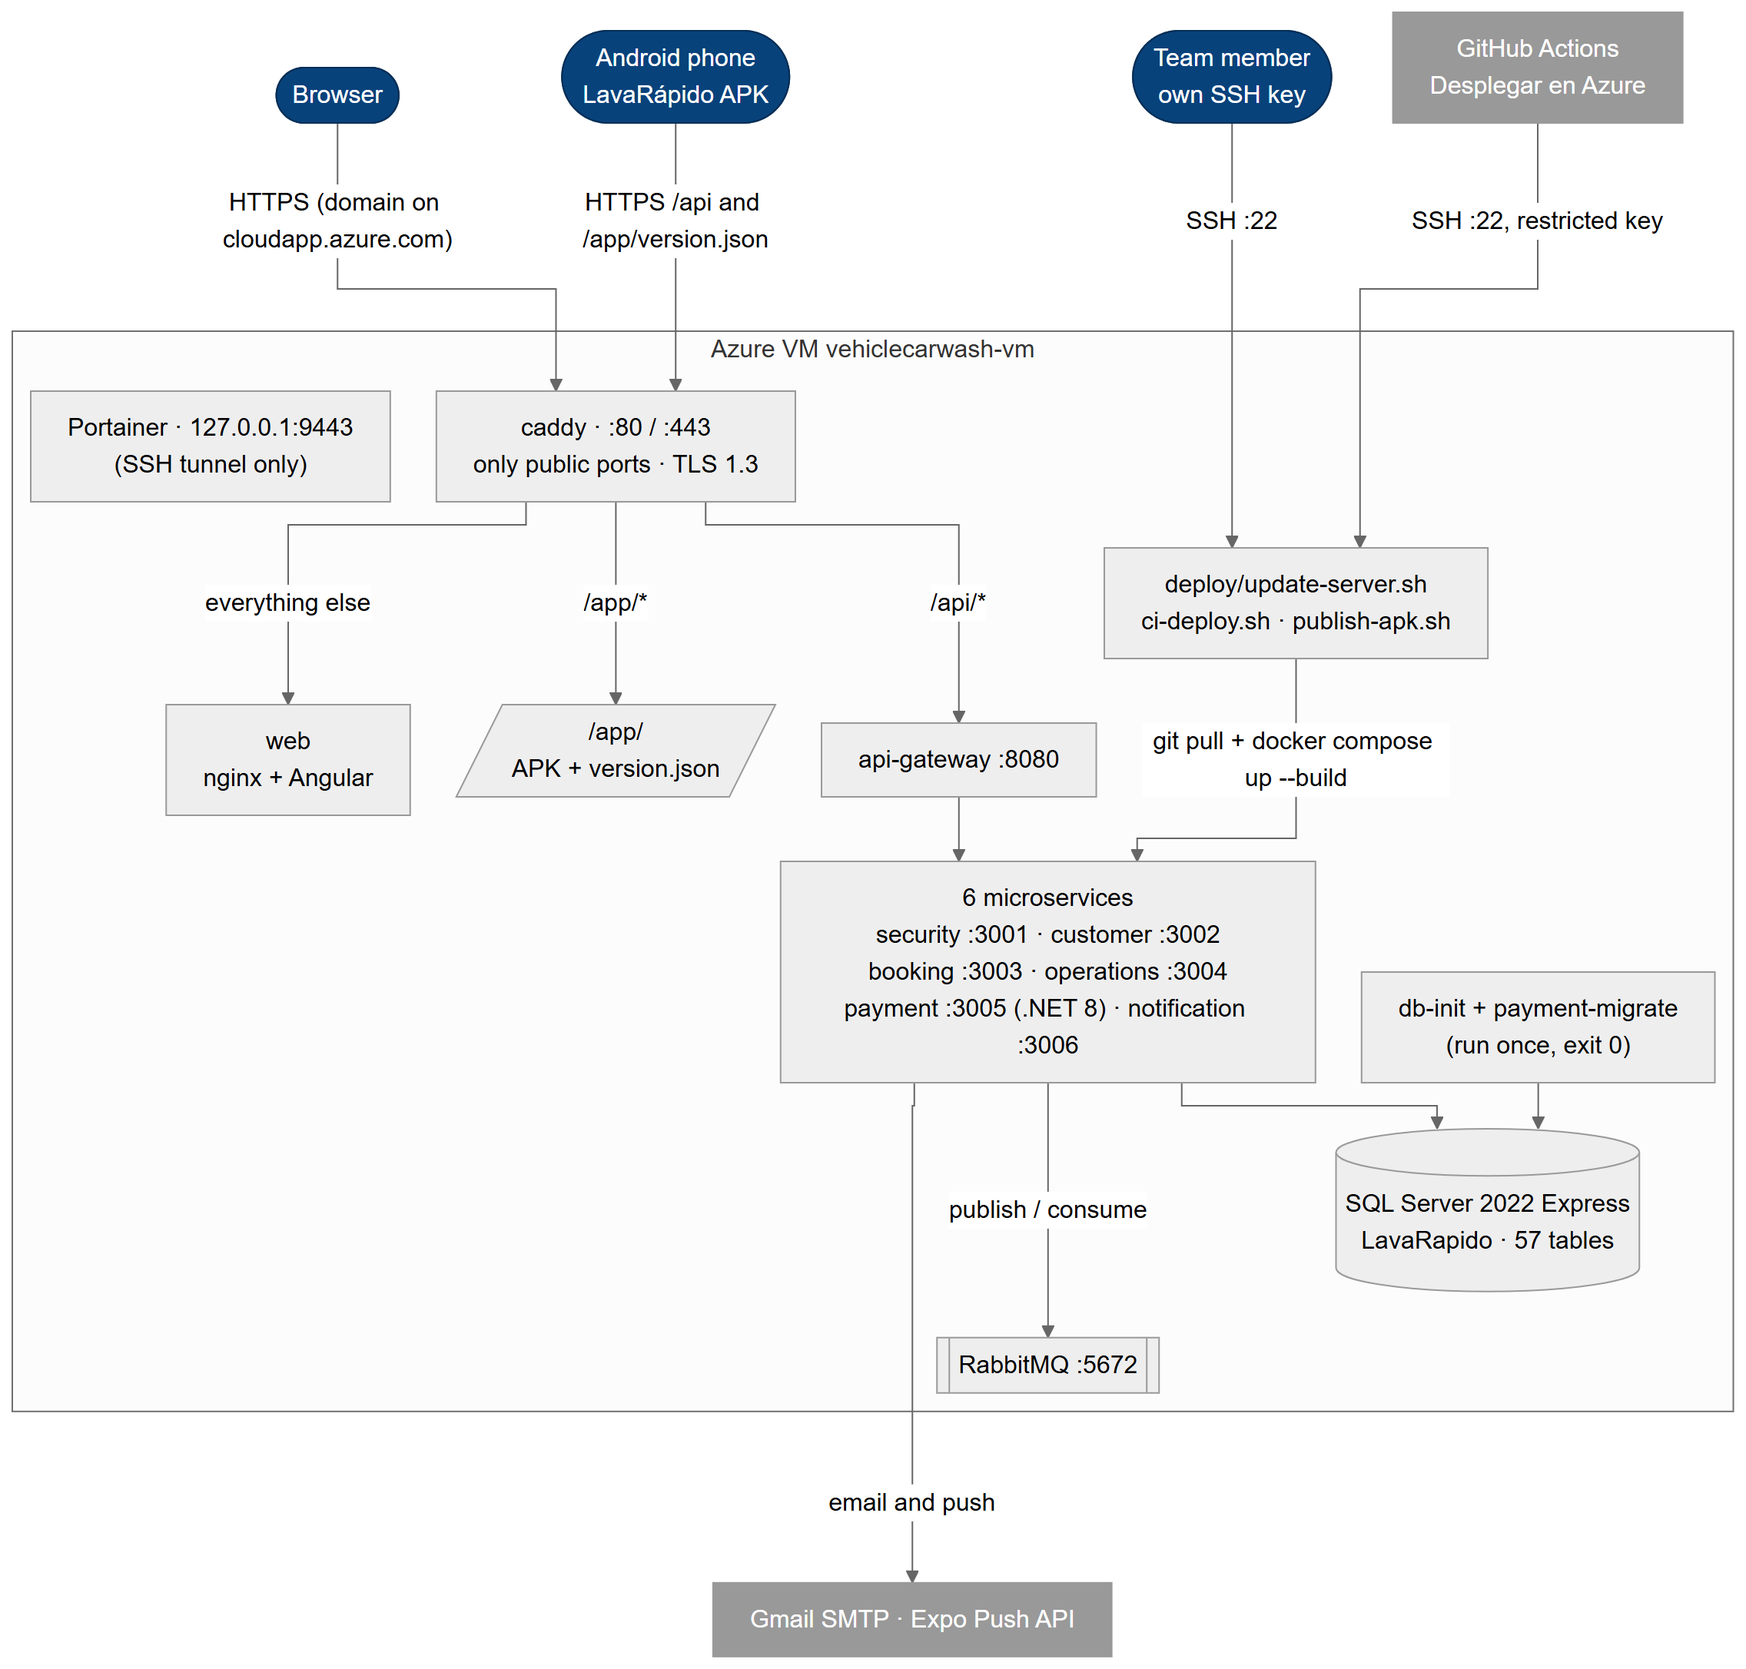
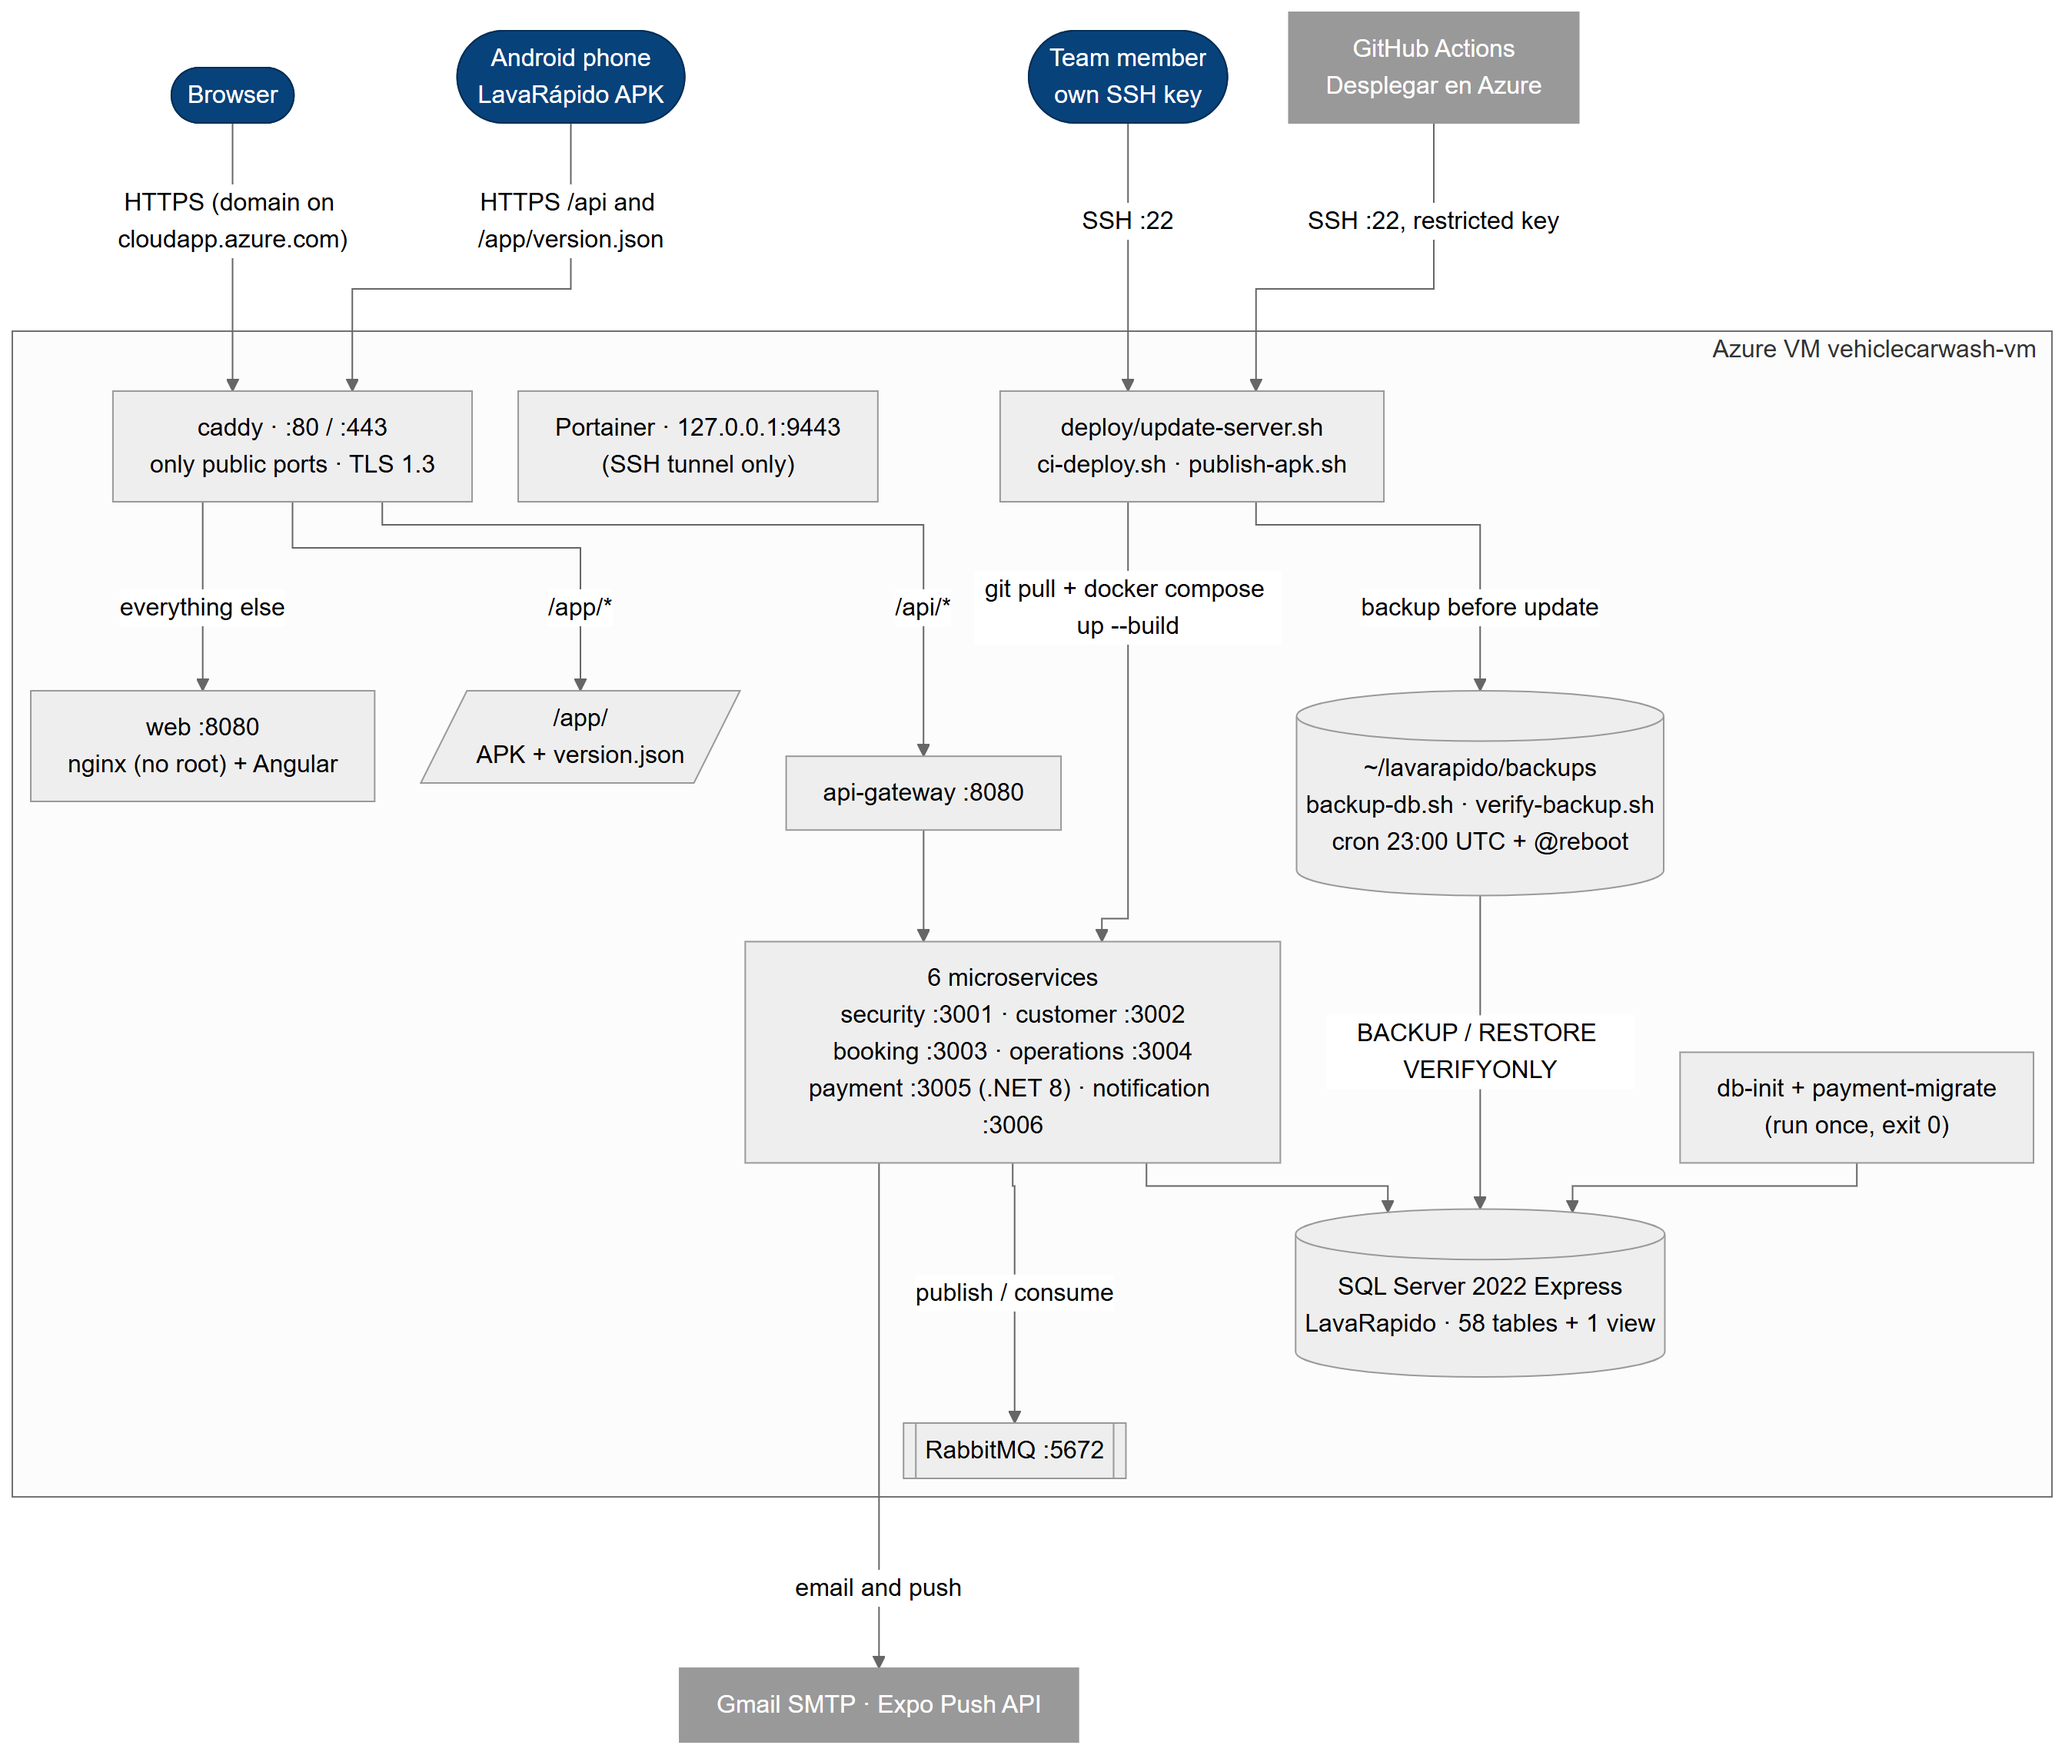
docs(uml): show production deployed from main by the continuous deployment

diff --git a/08-uml/diagrams/source/deployment-production.md b/08-uml/diagrams/source/deployment-production.md
@@ -1,11 +1,11 @@
-# Deployment — Production on Azure (as running on 2026-10-19, files checked on 2026-10-23)
+# Deployment — Production on Azure (as running on 2026-10-19, files checked on 2026-10-27)
 
 Source: `lavarapido-infra/docker-compose.yml` + `docker-compose.prod.yml`, `deploy/Caddyfile`,
 `deploy/update-server.sh`, `deploy/ci-deploy.sh`, `.github/workflows/deploy.yml`, and the server itself
 (`docker ps`, read on 2026-10-19). Details and measurements: `10-devops/production.md` and the
-Deployment Document of `lavarapido-docs`. Decision: ADR-016. The server follows `develop` and is
-updated by hand; the GitHub Actions path is drawn as it is configured, but on 2026-10-23 it had never
-run (no `AZURE_SSH_KEY` secret).
+Deployment Document of `lavarapido-docs`. Decision: ADR-016. The server runs `main` and is updated by
+the continuous deployment: since 2026-10-26 every merge to `main` runs "Desplegar en Azure" through the
+restricted key (ADR-017); the automatic deploys of 2026-10-26 and 2026-10-27 succeeded.
 
 ```mermaid
 flowchart TB
@@ -55,8 +55,8 @@ flowchart TB
 | Server | Azure VM `vehiclecarwash-vm` (Ubuntu 24.04, 2 vCPU, 7.7 GB), domain `lavarapidovehicular.northcentralus.cloudapp.azure.com`, public IP 64.236.160.129, Docker 29 and Compose v5; every container is in the network `lavarapido_default` |
 | Caddy | Only container with published ports; obtains and renews the certificate (valid until 2027-01-14 at the last check) |
 | Services | Which service calls which and the events they exchange: [c2-containers](./c2-containers.md). No ports on the host; Swagger off; memory limit per container, `restart: unless-stopped` |
-| SQL Server | Express edition; data in the `sqlserver-data` volume. `db-init` creates the database (recovery model `SIMPLE`); each Java service applies its Liquibase changelog on start-up (global numbering up to 047 and seeds up to 116 in `origin/develop` on 2026-10-24) and `payment-migrate` applies the .NET service's (own numbering up to 023) |
+| SQL Server | Express edition; data in the `sqlserver-data` volume. `db-init` creates the database (recovery model `SIMPLE`); each Java service applies its Liquibase changelog on start-up (global numbering up to 049 and seeds up to 117 on `main` on 2026-10-27) and `payment-migrate` applies the .NET service's (own numbering up to 023) |
 | Backups | `backup-db.sh` and `verify-backup.sh` run by cron (daily 23:00 UTC and 5 min after boot) and before each update; 14 regular and 10 `pre-update` kept on the VM disk; `restore-db.sh` and `rollback.sh` (`:prev` images) by hand (`13-operations/README.md`) |
 | Mailpit | Not started in production (`dev-only` profile) |
 | Portainer | Bound to `127.0.0.1`; reached through an SSH tunnel |
-| Access | Members with their own key; GitHub Actions with a restricted key that can only run `ci-deploy.sh` (key and secret still to be created). Continuous deployment from `main` with `boot-update.sh` is merged into `develop` since 2026-10-24, not run yet (ADR-017) |
+| Access | Members with their own key; GitHub Actions with a restricted key that can only run `ci-deploy.sh` (secret `AZURE_SSH_KEY` in infra). Continuous deployment from `main` with `boot-update.sh` active since 2026-10-26: a merge to `main` in any repository deploys, payment included (ADR-017) |
